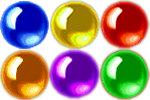
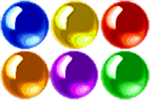
Fixed and tested ball colors

diff --git a/src/oopang/controller/loader/TestLevelLoader.java b/src/oopang/controller/loader/TestLevelLoader.java
@@ -42,7 +42,7 @@ public class TestLevelLoader implements LevelLoader {
         final Supplier<Power> doubleShoot = () -> factory.createDoubleShot();
         final List<Supplier<Power>> powerList = Arrays.asList(freeze, doubleShoot);
         final Level level = new TimedLevel(new PickUpGeneratingLevel(new BaseLevel(), powerList), 100);
-        level.getGameObjectFactory().createBall(4, Vectors2D.LEFT.multiply(XSPEED), BallColor.BLUE).setPosition(BALL_POS);
+        level.getGameObjectFactory().createBall(4, Vectors2D.LEFT.multiply(XSPEED), BallColor.GREEN).setPosition(BALL_POS);
         level.getGameObjectFactory().createPickup(factory.createTimedShield()).setPosition(BALL_POS);
         return new LevelData(ImageID.TAJ_MAHAL, level);
     }

diff --git a/src/oopang/view/rendering/gameobject/BallRenderer.java b/src/oopang/view/rendering/gameobject/BallRenderer.java
@@ -31,13 +31,13 @@ public class BallRenderer extends GameObjectRenderer<Ball> {
         if (color == BallColor.BLUE) {
             spriteSheet.setCell(0, 0);
         } else if (color == BallColor.YELLOW) {
-            spriteSheet.setCell(0, 1);
+            spriteSheet.setCell(1, 0);
         } else if (color == BallColor.RED) {
             spriteSheet.setCell(2, 0);
         } else if (color == BallColor.GREEN) {
             spriteSheet.setCell(2, 1);
         } else if (color == BallColor.ORANGE) {
-            spriteSheet.setCell(1, 0);
+            spriteSheet.setCell(0, 1);
         } else if (color == BallColor.PURPLE) {
             spriteSheet.setCell(1, 1);
         }
